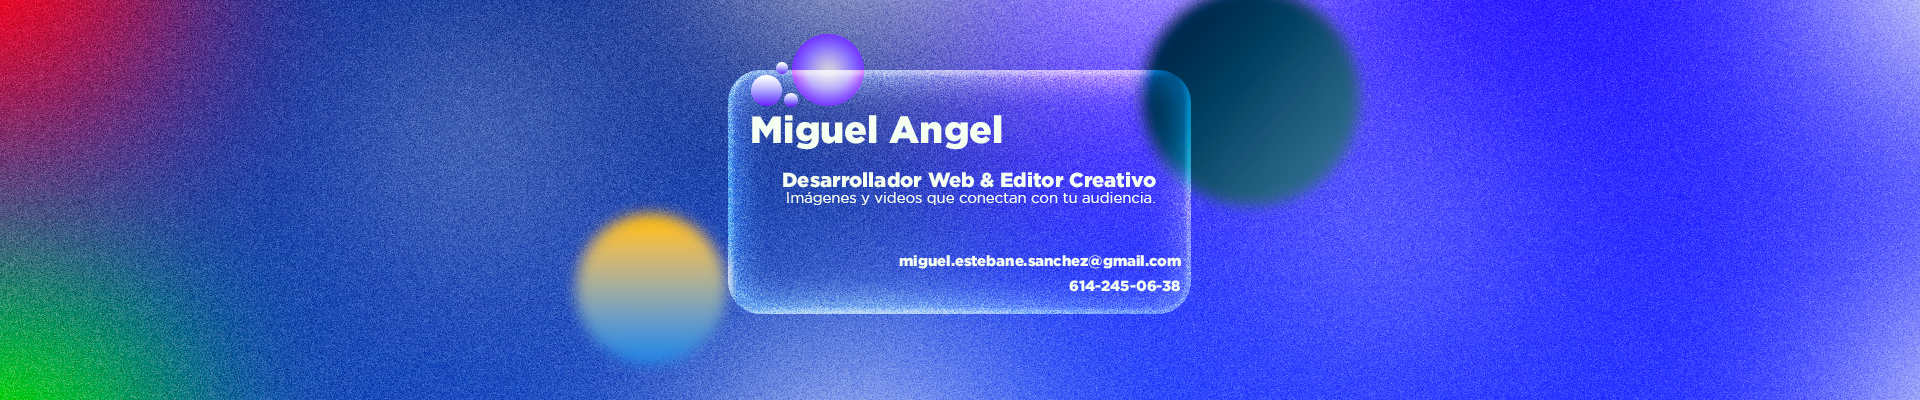
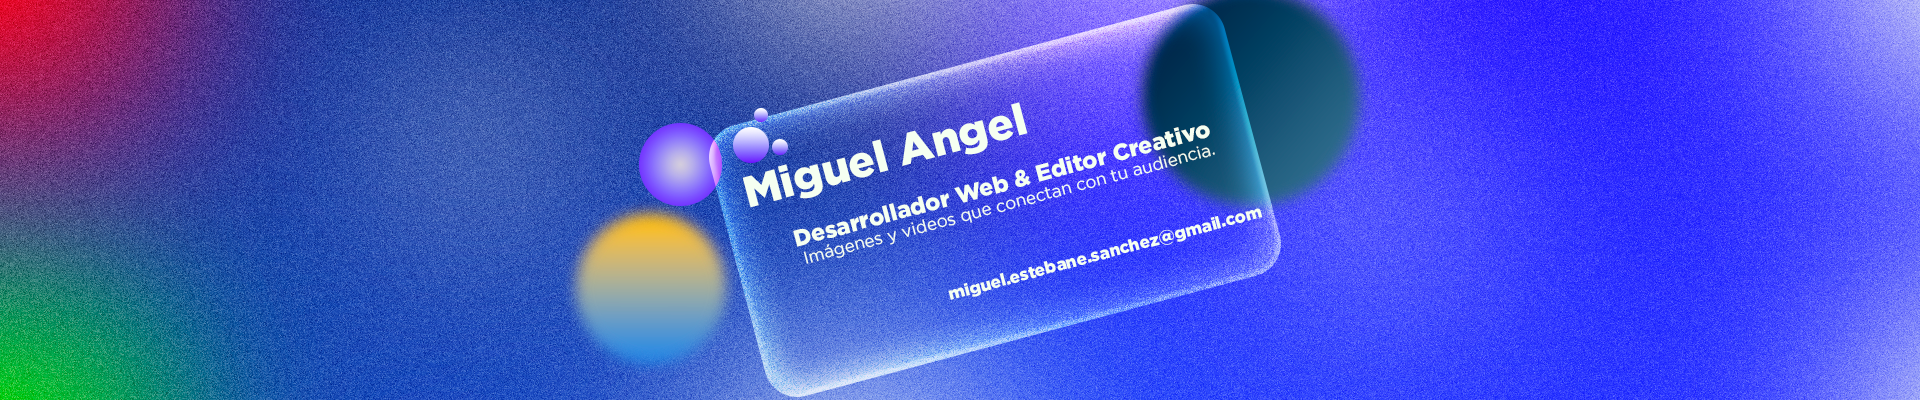
Update Information GitHub 2.0

Changed region(s): [[0.3125, 0.0, 0.6875, 0.99]]

diff --git a/README.md b/README.md
@@ -1,7 +1,8 @@
-# ¡Hola, bienvenid@! 👾🌟  
-<img src="https://media.giphy.com/media/hvRJCLFzcasrR4ia7z/giphy.gif" width="50"/>
+<p align="center">
+  <strong style="font-size: 24px;">¡Hey, te saluda Miguel!</strong> <img src="https://media.giphy.com/media/hvRJCLFzcasrR4ia7z/giphy.gif" width="50"/>
+</p>
 
-![Banner Personalizado](Tarjeta.png)
+![Banner Personalizado](Tarjeta1.png)
 
 ## Sobre mí 👋
 ¡Hola! Soy un apasionado desarrollador con experiencia en una amplia gama de proyectos y tecnologías. Mi trayectoria incluye:
